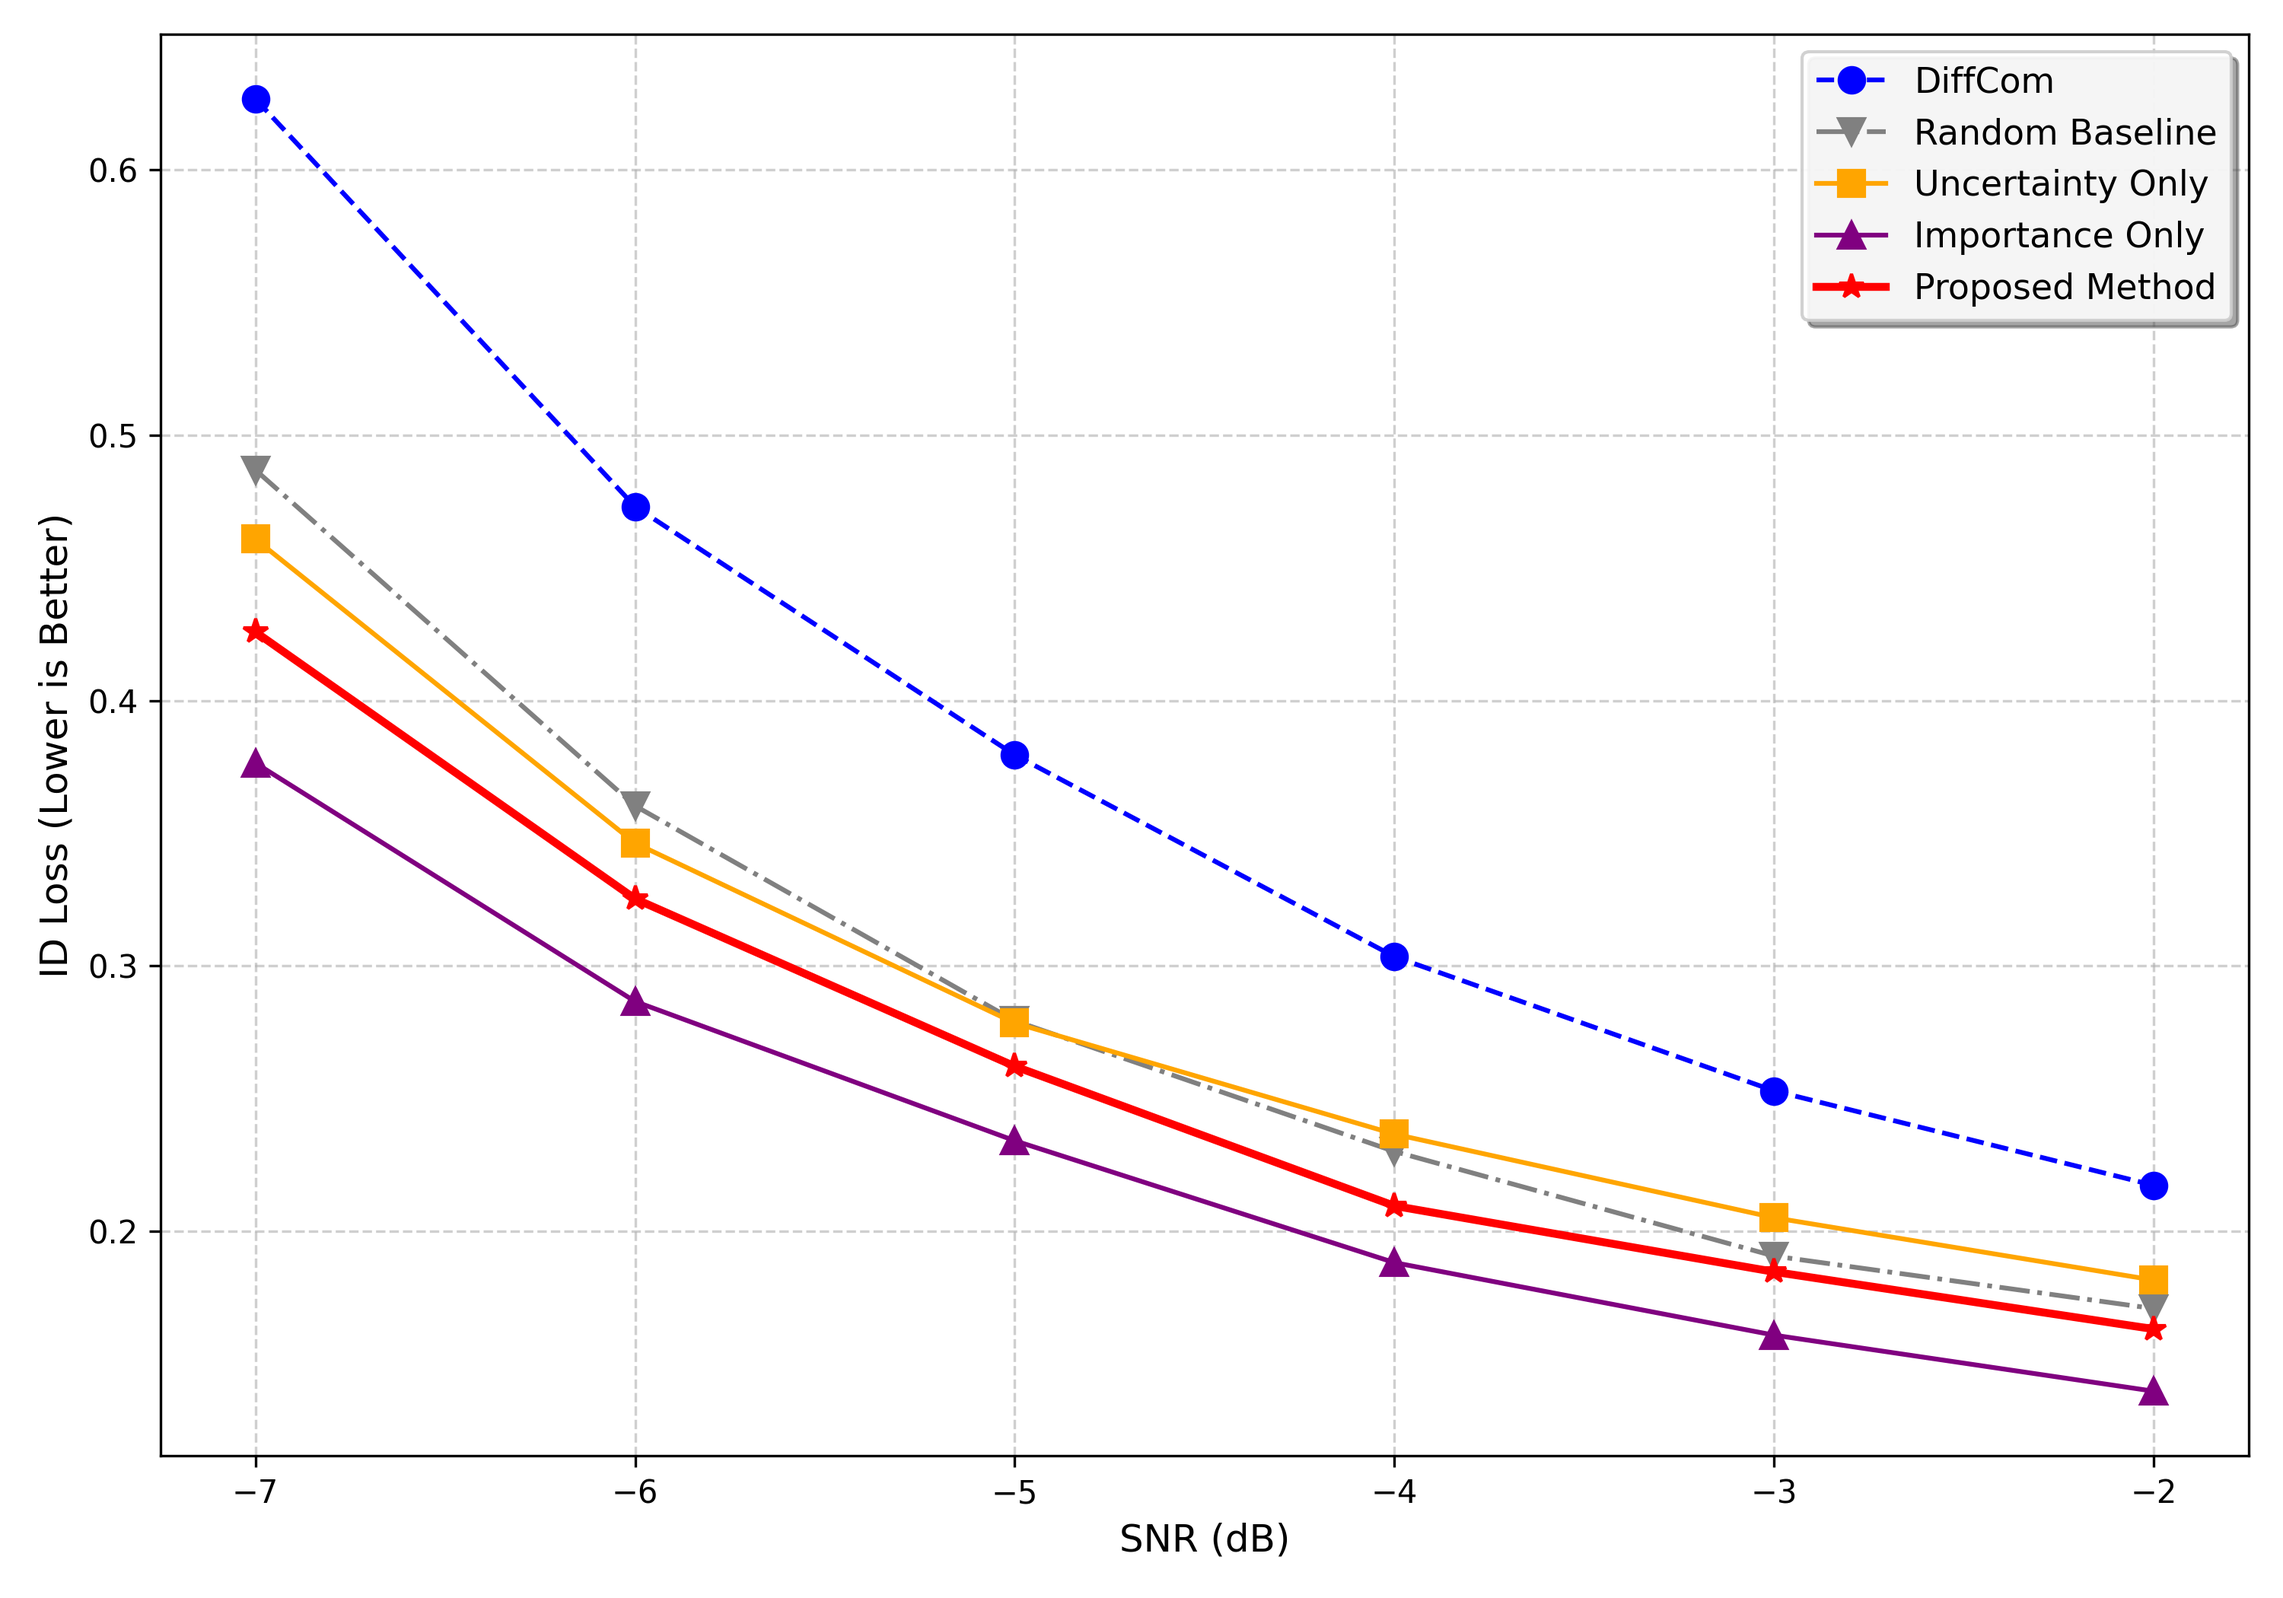
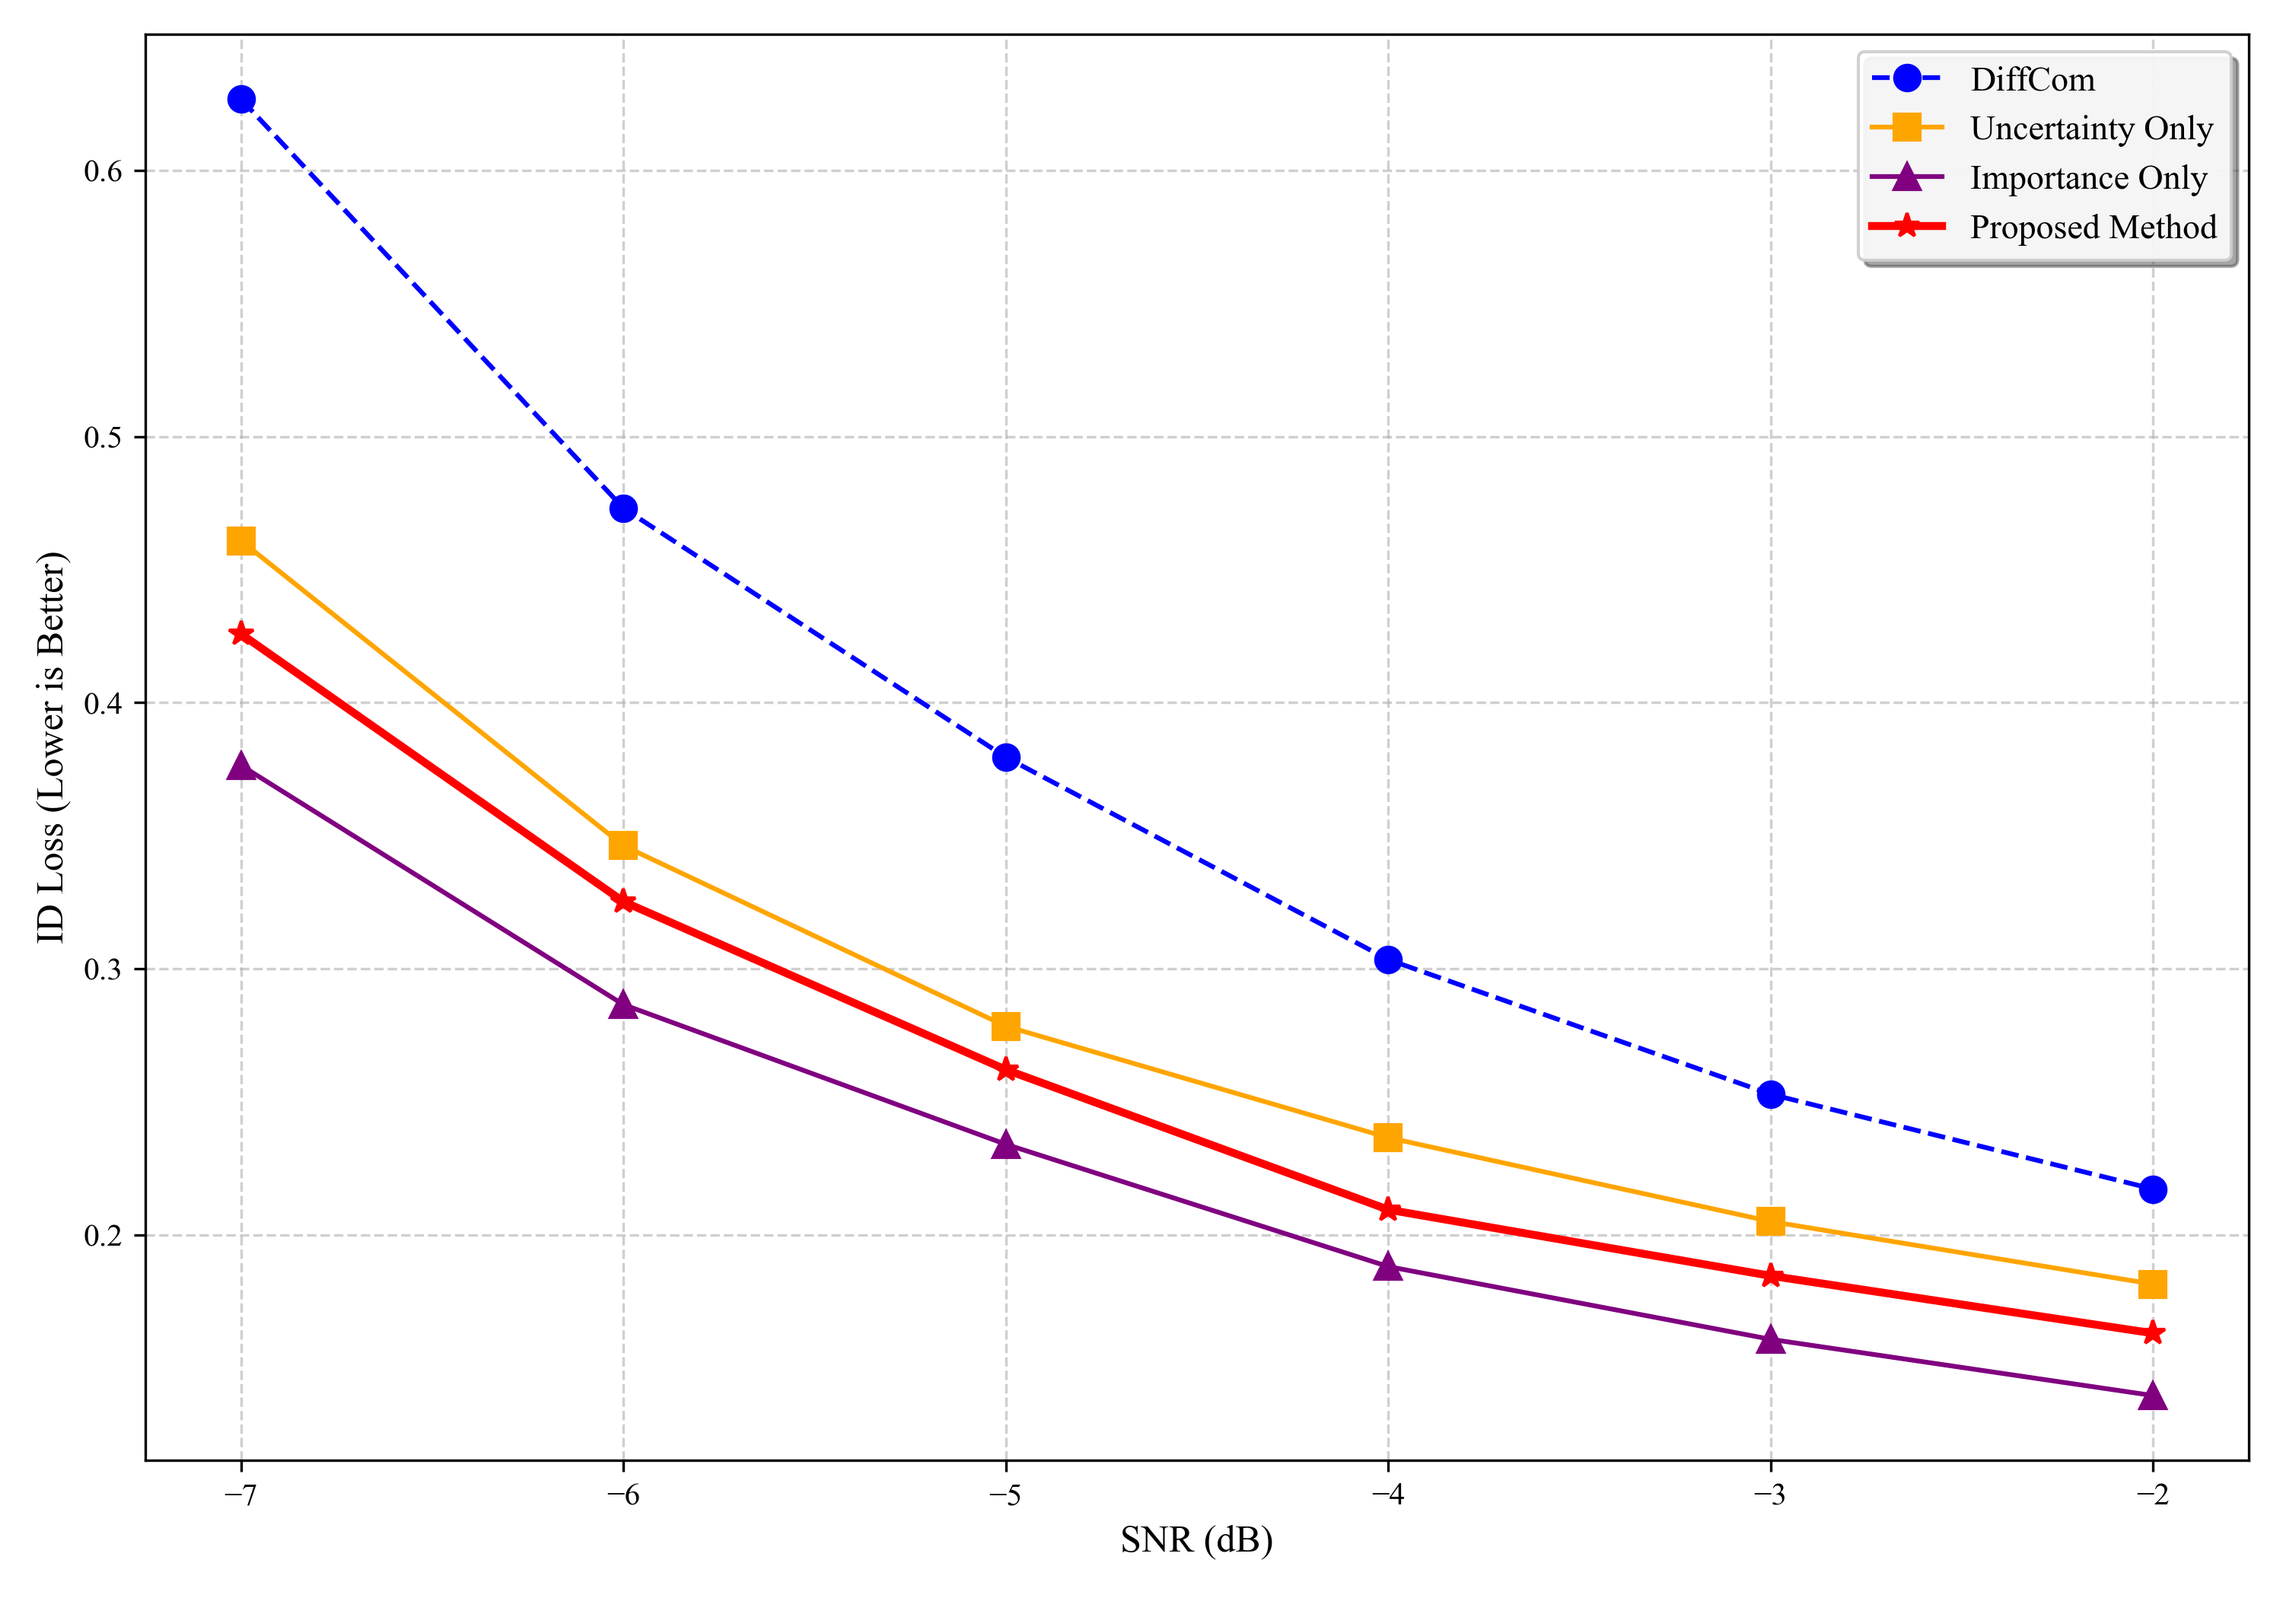
psnr idloss font

diff --git a/Suite/plot_psnr_suite.py b/Suite/plot_psnr_suite.py
@@ -6,6 +6,11 @@ import matplotlib.pyplot as plt
 import numpy as np
 
 # ==========================================
+# フォント設定 (Font Configuration)
+# ==========================================
+plt.rcParams['font.family'] = 'Times New Roman'
+
+# ==========================================
 # 設定エリア (Configuration)
 # ==========================================
 
@@ -39,7 +44,7 @@ STYLE_CONFIG = {
     # Phase 1 & Common
     # "1_JSCC_Init":         {"label": "Deep JSCC",    "color": "black",  "linestyle": ":",  "marker": "x"},
     "2_Phase1_Recon":      {"label": "DiffCom",     "color": "blue",   "linestyle": "--", "marker": "o"},
-    "1_Random_Baseline":   {"label": "Random Baseline",   "color": "gray",   "linestyle": "-.", "marker": "v"},
+    #"1_Random_Baseline":   {"label": "Random Baseline",   "color": "gray",   "linestyle": "-.", "marker": "v"},
     
     # Existing Baselines
     "2_Uncertainty_Only":  {"label": "Uncertainty Only",  "color": "orange", "linestyle": "-",  "marker": "s"},

diff --git a/Suite/plot_id_loss_suite.py b/Suite/plot_id_loss_suite.py
@@ -6,6 +6,11 @@ import matplotlib.pyplot as plt
 import numpy as np
 
 # ==========================================
+# フォント設定 (Font Configuration)
+# ==========================================
+plt.rcParams['font.family'] = 'Times New Roman'
+
+# ==========================================
 # 設定エリア (Configuration)
 # ==========================================
 
@@ -41,7 +46,7 @@ STYLE_CONFIG = {
     #"1_JSCC_Init":         {"label": "Deep JSCC",    "color": "black",  "linestyle": ":",  "marker": "x"},
     "2_Phase1_Recon":      {"label": "DiffCom",     "color": "blue",   "linestyle": "--", "marker": "o"},
     # Phase 1 & Common
-    "1_Random_Baseline":   {"label": "Random Baseline",   "color": "gray",   "linestyle": "-.", "marker": "v"},
+    #"1_Random_Baseline":   {"label": "Random Baseline",   "color": "gray",   "linestyle": "-.", "marker": "v"},
     
     # Existing Baselines
     "2_Uncertainty_Only":  {"label": "Uncertainty Only",  "color": "orange", "linestyle": "-",  "marker": "s"},
